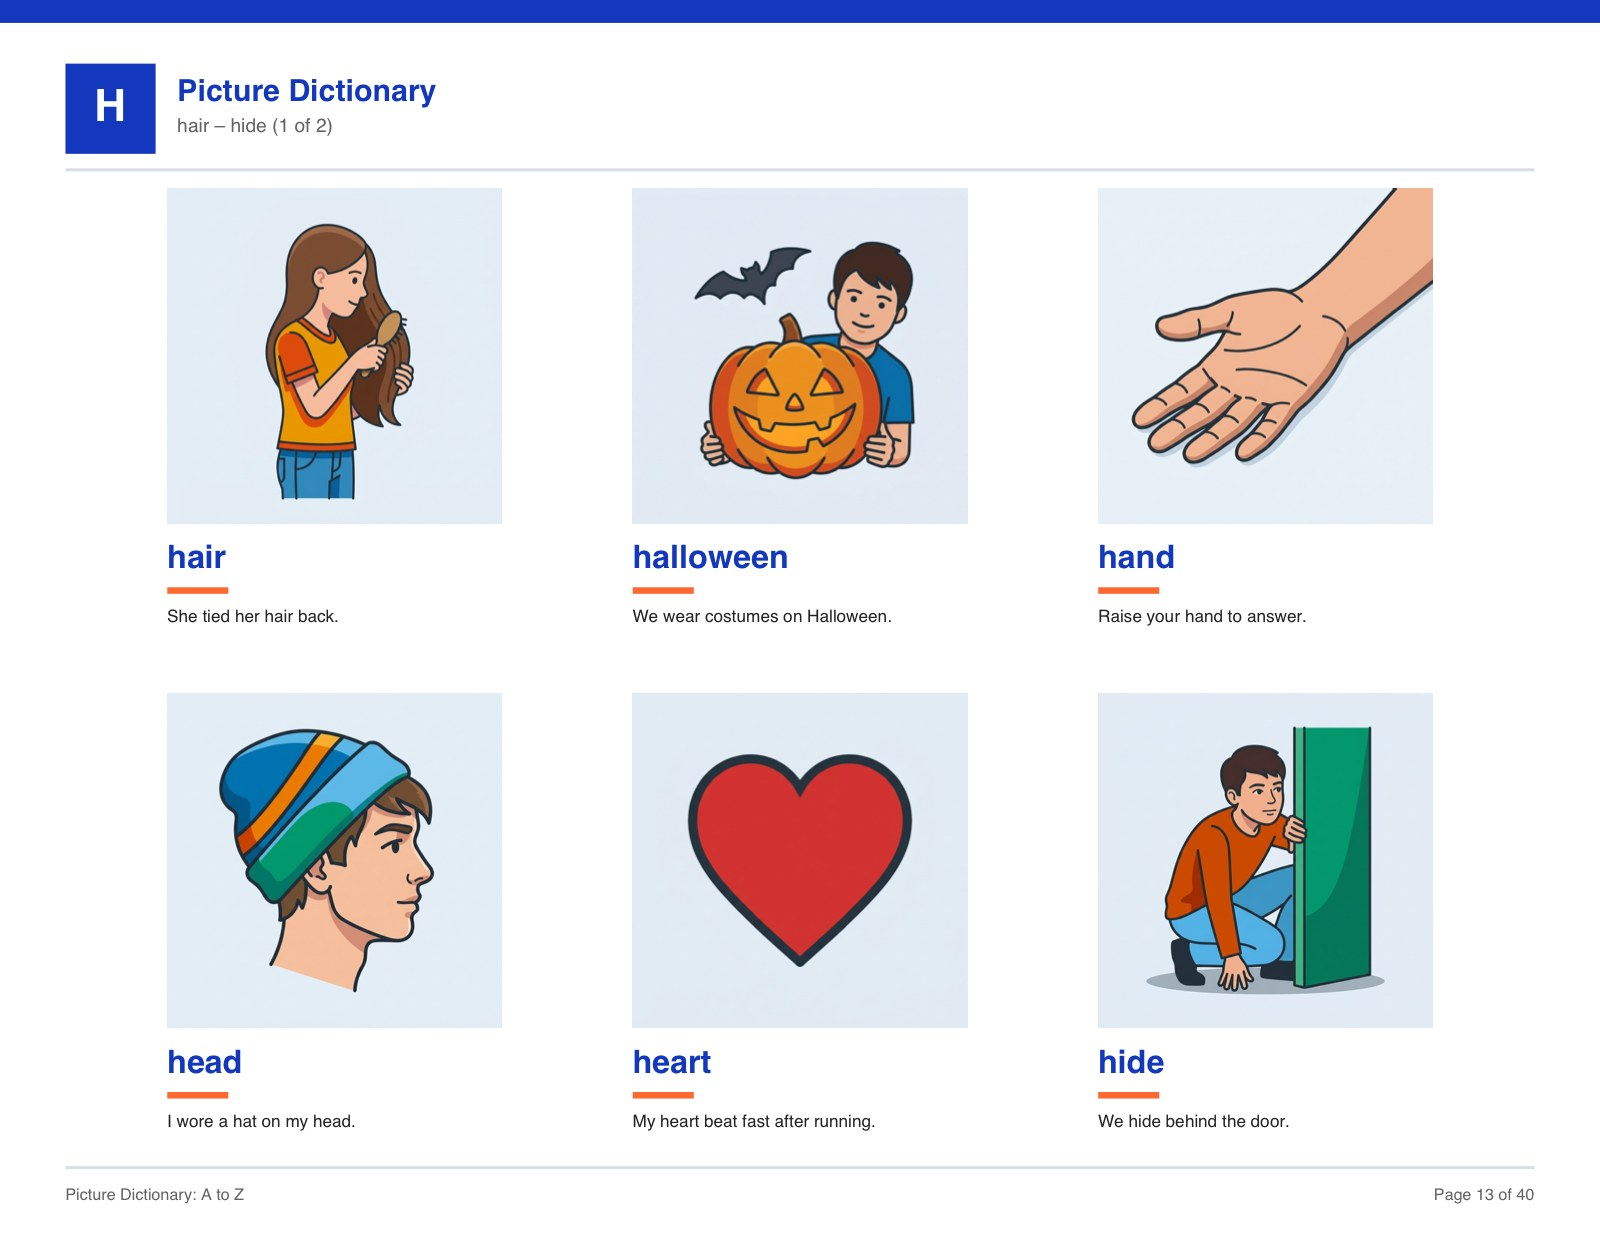
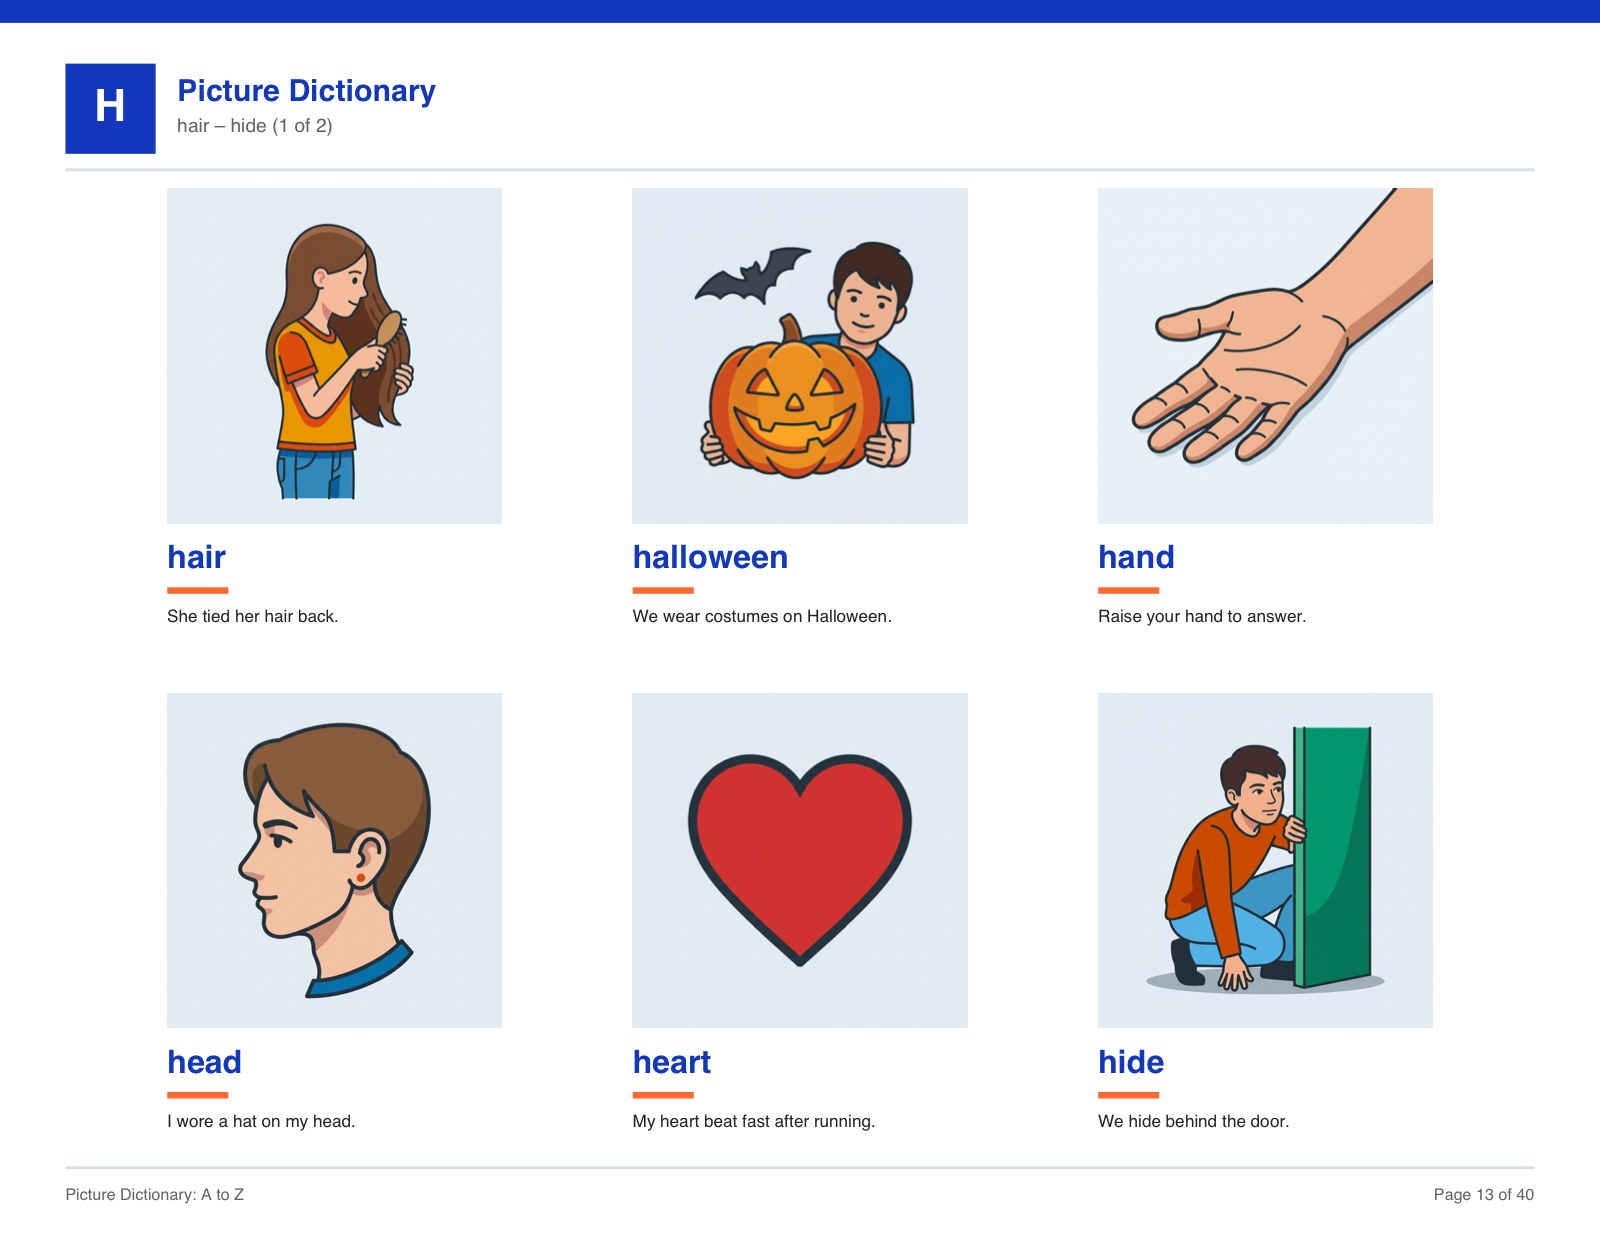
Brooke round 3: isolate ear/arm/head/leg, egg alone, trampoline jump, zoom tail

Changed region(s): [[0.125, 0.5841, 0.2812, 0.8301]]

diff --git a/prompts/scenes.py b/prompts/scenes.py
@@ -25,8 +25,9 @@ SCENES = {
     "angry": "a teenager with arms tightly crossed, eyebrows down, two small flat steam puffs at the sides of the head",
     "animal": "four friendly animals together on grass: a dog, a rabbit, a turtle and a small bird",
     "apple": "a single bright red apple with a green leaf on its stem, on a wooden desktop",
-    # The raised arm sprouted from the middle of the chest. Name the shoulder joint.
-    "arm": "a teenager sitting at a school desk with one arm raised straight up to answer, the raised arm clearly joined at the shoulder with the shoulder and upper sleeve visible, the other arm resting on the desk",
+    # Now an isolated limb, like `ear`, `head` and `leg`. The hand must stay
+    # loose and shapeless: a deliberate handshape here would read as a sign.
+    "arm": "one single arm by itself from shoulder to fingertips, held out straight across the picture, the hand relaxed with fingers loosely apart and making no deliberate shape, no body and no head",
     "art": "a wooden easel holding a colourful painting, with a paint palette and brushes in a jar beside it",
     "astronaut": "an astronaut in a white spacesuit with a round helmet, floating, a few flat stars and a blue planet arc behind",
     # B
@@ -83,9 +84,13 @@ SCENES = {
     "duck": "a duck with a yellow bill swimming on blue water",
     # E
     # The ear came back far larger than a real ear relative to the head.
-    "ear": "a side view of a teenager's head, the ear drawn at natural size in correct proportion to the head, with a hearing aid tucked behind it",
+    # The hearing aid was removed at Brooke's request — the sentence in
+    # make_words.py was changed to match, since it used to mention one.
+    # Cropped too tight it renders as a rectangular patch of skin pasted on the
+    # background. Keep the head's outline so it reads as a drawing, not a crop.
+    "ear": "a close side view of a teenager's head with the ear large and central, the curved outline of the cheek, jaw and hair drawn around it against the plain background, no hearing aid and no earring",
     "earth": "the planet Earth seen from space, blue oceans and green continents",
-    "egg": "a single white egg standing in an egg cup",
+    "egg": "a single white egg lying on its side by itself, with no egg cup, no bowl and nothing else in the picture",
     "elephant": "a grey elephant standing side-on with its trunk curled",
     "exercise": "a teenager in gym clothes doing a jumping jack, arms and legs out",
     "eye": "a close view of one open eye",
@@ -136,7 +141,10 @@ SCENES = {
     # "head and shoulders straight on" is the same picture as `face`. The hat
     # gives the head a top and a shape of its own.
     # Showed the whole body, so the head was not the subject.
-    "head": "a close view of a teenager's head and neck only, in side profile wearing a woolly hat, cropped at the shoulders with no body below",
+    # The hat was here to stop this colliding with `face`; Brooke asked for it
+    # gone, so side profile against `face`'s front view is now the only thing
+    # keeping the two pictures apart.
+    "head": "a close view of a teenager's whole head and neck in side profile, hair visible and nothing covering the head, no hat, cropped at the shoulders with no body below",
     "heart": "a simple red heart shape",
     "hide": "a teenager crouching behind a door, peeking around its edge",
     "hill": "a green rounded hill with a path winding up it",
@@ -154,8 +162,7 @@ SCENES = {
     # took the 70%. Dropping the person removes the conflict entirely.
     "jar": "a single glass jar with a lid, filled with round biscuits, standing by itself with no person in the picture",
     "juice": "a tall glass of orange juice with a straw",
-    # The old pose read as squatting, and he was above the grass, not the puddle.
-    "jump": "a teenager caught in mid-air leaping across a puddle, body leaning forward with one leg stretched out in front and the other trailing behind, clearly airborne directly above the water",
+    "jump": "a teenager bouncing high in the air above a round trampoline, knees bent and arms out for balance, clearly airborne well above the trampoline mat",
     # K
     "kick": "a teenager kicking a soccer ball, leg extended",
     "king": "a king wearing a gold crown and a red robe",
@@ -171,7 +178,8 @@ SCENES = {
     "lamp": "a table lamp switched on and glowing",
     "laugh": "a teenager laughing with their head tilted back",
     # Cropping at the waist left a headless torso.
-    "leg": "a teenager standing still and facing the viewer, shown from head to feet, wearing short sports shorts and trainers so both bare legs are uncovered and clearly visible from hip to ankle",
+    # A whole standing figure is the picture for `stand`. Crop to the limb.
+    "leg": "a close view of one single bare leg by itself from hip down to the foot, wearing a trainer, the leg filling the picture, no body above the hip",
     "letter": "a sealed white envelope with a stamp in the corner",
     "library": "tall bookshelves full of books with a reading table in front",
     "light": "a glowing light bulb",
@@ -296,8 +304,12 @@ SCENES = {
     "swing": "a playground swing with a child swinging on it",
     # T
     "table": "a wooden table with four legs",
-    # A rear view of a dog's backside is not a readable picture of a tail.
-    "tail": "a dog standing in side view with its long tail raised and curling upward, the tail the clear focus of the picture",
+    # A rear view of a dog's backside is not a readable picture of a tail; a
+    # whole dog makes the tail too small. Crop to the back half, side on.
+    # Told to fill the frame the tail swallowed the dog and read as a flame.
+    # The dog has to stay recognisable for the tail to mean anything.
+    # Left unstated, the restricted palette coloured the dog pink and green.
+    "tail": "a golden-brown dog standing side-on seen from close up, natural tan and brown fur all over, its whole body and hind legs clearly recognisable as a dog, with its long fluffy tail raised and curling upward as the largest feature",
     "teacher": "a teacher standing beside a whiteboard, facing the class",
     # Would otherwise be the same crop as `mouth`. The action distinguishes it.
     "teeth": "a teenager brushing their front teeth with a toothbrush, mouth open so the white teeth are the clear focus",

diff --git a/make_words.py b/make_words.py
@@ -94,7 +94,7 @@ SENTENCES = {
     "drum": "He plays the drum in band.",
     "duck": "A duck swam across the pond.",
     # E
-    "ear": "My hearing aid sits behind my ear.",
+    "ear": "My ear is on the side of my head.",
     "earth": "Earth is the planet we live on.",
     "egg": "I ate one egg for breakfast.",
     "elephant": "The elephant has a long trunk.",
